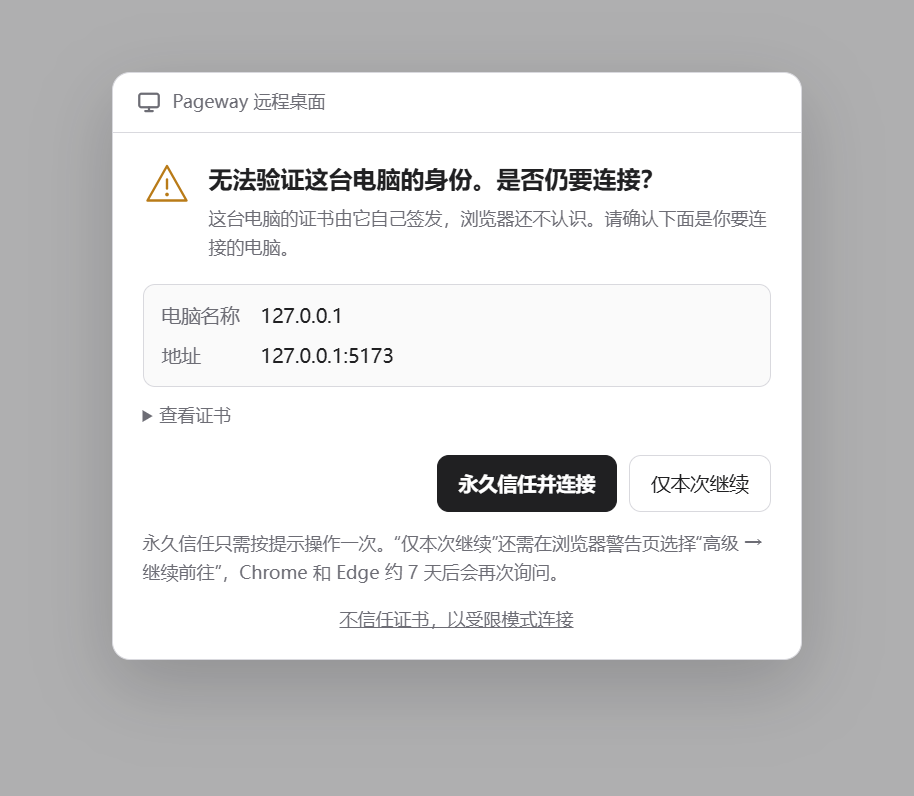
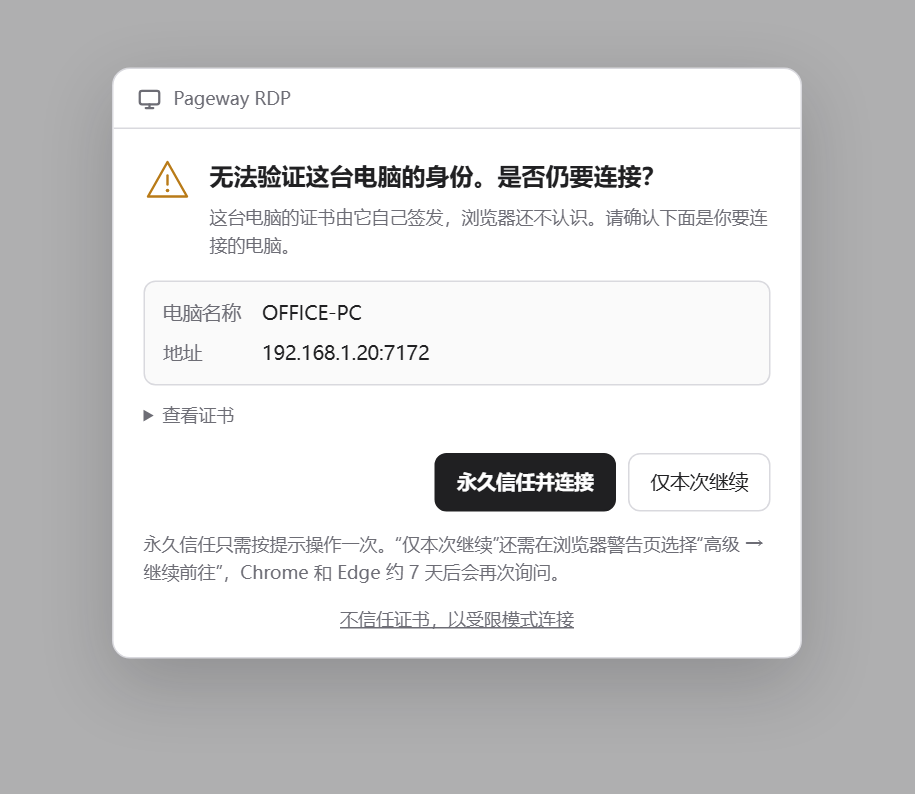
build: brand the project as Pageway RDP
SSH and VNC will ship as separate projects, so give this one RDP-specific
names: add an RDP tag next to the wordmark on the sign-in page and installer
welcome bitmap, and rename the install directory, registry keys, scheduled
task, firewall rule, data directory, certificates, downloads and installer
files to Pageway RDP / Pageway-RDP-*. Refresh the documentation screenshots.

diff --git a/frontend/public/trust.html b/frontend/public/trust.html
@@ -3,7 +3,7 @@
 <head>
   <meta charset="utf-8" />
   <meta name="viewport" content="width=device-width, initial-scale=1" />
-  <title>Pageway</title>
+  <title>Pageway RDP</title>
   <link rel="icon" type="image/svg+xml" href="/pageway-icon.svg" />
   <style>
     *{box-sizing:border-box}body{margin:0;min-height:100vh;padding:clamp(12px,5vh,48px) 16px 24px;background:#f3f3f4;color:#202022;font:14px/1.6 system-ui,'Segoe UI','Microsoft YaHei',sans-serif}body::before{content:'';position:fixed;inset:0;background:rgba(0,0,0,.28);pointer-events:none}.dialog{position:relative;width:min(460px,100%);margin:0 auto;background:#fff;border:1px solid #d9d9de;border-radius:12px;box-shadow:0 16px 48px rgba(20,20,25,.2);overflow:hidden}.titlebar{display:flex;align-items:center;gap:8px;padding:10px 16px;border-bottom:1px solid #d9d9de;color:#6d6d75;font-size:12px}.titlebar svg{width:16px;height:16px}.body{padding:18px 20px 16px}.head{display:flex;gap:12px;align-items:flex-start}.head>svg{width:32px;height:32px;flex:0 0 auto;color:#b97b18;stroke-width:1.6}h1{font-size:16px;line-height:1.4;margin:2px 0 6px}p{margin:0;color:#6d6d75;font-size:12px}.facts{display:grid;grid-template-columns:auto 1fr;gap:6px 14px;margin:14px 0 0;padding:10px 12px;border:1px solid #d9d9de;border-radius:8px;background:#fafafa;font-size:13px}.facts dt{color:#6d6d75}.facts dd{margin:0;word-break:break-all}details{margin-top:10px;color:#6d6d75;font-size:12px}summary{cursor:pointer}.certificate{margin-top:8px;padding:10px 12px;border:1px dashed #d9d9de;border-radius:8px;line-height:1.7}.certificate code{display:block;color:#202022;font:11px/1.6 ui-monospace,Consolas,monospace;word-break:break-all}.certificate a{color:inherit}.hint,.steps{margin:12px 0 0}.limited{margin-top:12px;text-align:center}.limited a{color:inherit}.steps{padding:10px 12px 10px 30px;border:1px solid #d9d9de;border-radius:8px;background:#fafafa;color:#6d6d75;font-size:12px;line-height:1.8}.actions{display:flex;justify-content:flex-end;flex-wrap:wrap;gap:8px;margin-top:16px}.button{min-width:86px;padding:8px 14px;border:1px solid #202022;border-radius:8px;background:#202022;color:#fff;font:inherit;font-size:13px;font-weight:600;text-align:center;text-decoration:none;cursor:pointer}.button.secondary{border-color:#d9d9de;background:#fff;color:#202022;font-weight:400}.wait{display:flex;align-items:center;gap:8px;margin-top:14px;color:#6d6d75;font-size:12px}.spinner{width:12px;height:12px;border:2px solid #d9d9de;border-top-color:#202022;border-radius:50%;animation:spin 1s linear infinite}@keyframes spin{to{transform:rotate(360deg)}}svg{fill:none;stroke:currentColor;stroke-linecap:round;stroke-linejoin:round;stroke-width:1.5}[hidden]{display:none!important}@media(max-width:480px){body{padding:8px}.body{padding:16px}.facts{font-size:12px}}@media(prefers-color-scheme:dark){body{background:#242426;color:#f2f2f3}.dialog{background:#2f2f33;border-color:#45454c;box-shadow:0 16px 48px rgba(0,0,0,.5)}.titlebar{border-color:#45454c;color:#aaaab2}.head>svg{color:#f5b942}p,details,.facts dt,.steps,.wait{color:#aaaab2}.facts,.steps{background:#1b1b1d;border-color:#45454c}.certificate{border-color:#45454c}.certificate code{color:#f2f2f3}.button{border-color:#f2f2f3;background:#f2f2f3;color:#161617}.button.secondary{border-color:#45454c;background:#2f2f33;color:#f2f2f3}.spinner{border-color:#45454c;border-top-color:#f2f2f3}}
@@ -13,7 +13,7 @@
 <main class="dialog" role="dialog" aria-modal="true" aria-labelledby="dialog-title">
   <div class="titlebar">
     <svg viewBox="0 0 16 16" aria-hidden="true"><rect x="1.5" y="2.5" width="13" height="9" rx="1.5" /><path d="M5.5 14h5M8 11.5V14" /></svg>
-    <span data-zh="Pageway 远程桌面" data-en="Pageway Remote Desktop">Pageway 远程桌面</span>
+    <span>Pageway RDP</span>
   </div>
   <section id="checking" class="body">
     <div class="wait"><span class="spinner"></span><span data-zh="正在检查证书是否已受信任…" data-en="Checking whether the certificate is trusted…">正在检查证书是否已受信任…</span></div>
@@ -33,7 +33,7 @@
     <details>
       <summary data-zh="查看证书" data-en="View certificate">查看证书</summary>
       <div class="certificate">
-        <span data-zh="颁发者：Pageway 本机根证书（仅可用于本机名和私网地址）" data-en="Issuer: Pageway local root CA (restricted to this PC's name and private network addresses)">颁发者：Pageway 本机根证书（仅可用于本机名和私网地址）</span><br />
+        <span data-zh="颁发者：Pageway RDP 本机根证书（仅可用于本机名和私网地址）" data-en="Issuer: Pageway RDP local root CA (restricted to this PC's name and private network addresses)">颁发者：Pageway RDP 本机根证书（仅可用于本机名和私网地址）</span><br />
         <span data-zh="SHA-256 指纹：" data-en="SHA-256 fingerprint:">SHA-256 指纹：</span>
         <code id="fingerprint">—</code>
         <a href="/pageway/ca.cer" data-zh="下载证书文件" data-en="Download certificate file">下载证书文件</a>
@@ -73,11 +73,11 @@ const ua=navigator.userAgent;const firefox=Number(/Firefox\/(\d+)/.exec(ua)?.[1]
 const os=/iPhone|iPad/.test(ua)?'ios':/Android/.test(ua)?'android':/Mac OS X/.test(ua)?'mac':/Windows/.test(ua)?'windows':'linux';
 const platform=(os==='windows'||os==='mac')&&firefox&&firefox<120||os==='linux'&&firefox?'firefox':os;
 const content={
- windows:{download:'/pageway/ca.cmd',steps:zh?['运行已下载的 Pageway 信任脚本，浏览器下载时请选择“保留”。','在 Windows 安全警告中核对指纹并点“是”，无需管理员权限。','完成后本页自动进入；Chrome、Edge、Firefox 120 及以上版本通用。']:['Run the downloaded Pageway trust script. Choose Keep if the browser asks.','Verify the fingerprint in the Windows security warning and select Yes. Administrator rights are not required.','This page will connect automatically. Works in Chrome, Edge and Firefox 120 or later.'],waiting:zh?'运行刚下载的 Pageway 信任脚本，在系统提示中核对指纹并点“是”。':'Run the downloaded Pageway trust script, verify the fingerprint and select Yes in the system prompt.'},
+ windows:{download:'/pageway/ca.cmd',steps:zh?['运行已下载的 Pageway RDP 信任脚本，浏览器下载时请选择“保留”。','在 Windows 安全警告中核对指纹并点“是”，无需管理员权限。','完成后本页自动进入；Chrome、Edge、Firefox 120 及以上版本通用。']:['Run the downloaded Pageway RDP trust script. Choose Keep if the browser asks.','Verify the fingerprint in the Windows security warning and select Yes. Administrator rights are not required.','This page will connect automatically. Works in Chrome, Edge and Firefox 120 or later.'],waiting:zh?'运行刚下载的 Pageway RDP 信任脚本，在系统提示中核对指纹并点“是”。':'Run the downloaded Pageway RDP trust script, verify the fingerprint and select Yes in the system prompt.'},
  firefox:{download:'/pageway/ca.der',steps:zh?['打开 Firefox 设置 > 隐私与安全 > 证书 > 查看证书。','在“证书机构”中导入刚下载的 ca.der，并勾选“信任此 CA 标识网站”。','完成后本页自动进入。']:['Open Firefox Settings > Privacy & Security > Certificates > View Certificates.','Import the downloaded ca.der under Authorities and select Trust this CA to identify websites.','This page will connect automatically when complete.'],waiting:zh?'请在 Firefox 的证书机构设置中完成 ca.der 的导入和信任。':'Complete the ca.der import and trust steps in Firefox certificate authorities settings.'},
  linux:{download:'/pageway/ca.cer',steps:zh?['打开 chrome://certificate-manager。','在本地证书中导入刚下载的 ca.cer 并设为受信任的证书机构，完成后本页自动进入。']:['Open chrome://certificate-manager.','Import the downloaded ca.cer under local certificates and trust it as a certificate authority. This page will connect automatically.'],waiting:zh?'请在浏览器证书管理中完成 ca.cer 的导入和信任。':'Complete the ca.cer import and trust steps in your browser certificate manager.'},
  mac:{download:'/pageway/ca.mobileconfig',steps:zh?['打开已下载的描述文件。','在系统设置中安装并输入密码，适用于 Safari、Chrome、Edge 和 Firefox 120 及以上版本。','完成后本页自动进入；如仍提示不安全，在钥匙串访问中设为“始终信任”。']:['Open the downloaded profile.','Install it in System Settings and enter your password. Works in Safari, Chrome, Edge and Firefox 120 or later.','This page will connect automatically. If the browser still warns, set the certificate to Always Trust in Keychain Access.'],waiting:zh?'请在系统设置中完成描述文件安装。':'Complete the profile installation in System Settings.'},
- ios:{download:'/pageway/ca.mobileconfig',steps:zh?['在系统设置中安装已下载的描述文件。','打开“设置 > 通用 > 关于本机 > 证书信任设置”。','启用 Pageway 根证书的完全信任，完成后本页自动进入。']:['Install the downloaded profile in Settings.','Open Settings > General > About > Certificate Trust Settings.','Enable full trust for the Pageway root certificate. This page will connect automatically.'],waiting:zh?'请完成描述文件安装，并在证书信任设置中启用完全信任。':'Install the profile and enable full trust in Certificate Trust Settings.'},
+ ios:{download:'/pageway/ca.mobileconfig',steps:zh?['在系统设置中安装已下载的描述文件。','打开“设置 > 通用 > 关于本机 > 证书信任设置”。','启用 Pageway RDP 根证书的完全信任，完成后本页自动进入。']:['Install the downloaded profile in Settings.','Open Settings > General > About > Certificate Trust Settings.','Enable full trust for the Pageway RDP root certificate. This page will connect automatically.'],waiting:zh?'请完成描述文件安装，并在证书信任设置中启用完全信任。':'Install the profile and enable full trust in Certificate Trust Settings.'},
  android:{download:'/pageway/ca.cer',steps:zh?['打开“设置 > 安全 > 加密与凭据 > 安装证书 > CA 证书”。','选择刚下载的 ca.cer，完成后本页自动进入。']:['Open Settings > Security > Encryption & credentials > Install a certificate > CA certificate.','Select the downloaded ca.cer. This page will connect automatically.'],waiting:zh?'请在系统设置中完成 CA 证书安装。':'Complete the CA certificate installation in Settings.'}
 };
 const selected=content[platform];

diff --git a/frontend/index.html b/frontend/index.html
@@ -34,6 +34,7 @@
               </g>
             </svg>
             <span class="brand-name">pageway</span>
+            <span class="brand-tag">RDP</span>
           </div>
           <p class="tagline">Everything is a page away</p>
           <div class="windows-avatar" aria-hidden="true">
@@ -93,7 +94,7 @@
       <span id="connection-name" class="connection-name">
         <svg id="secure-icon" class="secure-icon" viewBox="0 0 16 16" aria-hidden="true"><rect x="3" y="7" width="10" height="7" rx="1.5" /><path d="M5 7V5a3 3 0 0 1 6 0v2" /></svg>
         <svg id="limited-icon" class="limited-icon" viewBox="0 0 16 16" aria-hidden="true" hidden><path d="M8 2.5 14.5 13.5h-13z" /><path d="M8 6.5v3.2M8 11.6h.01" /></svg>
-        <span id="connection-host">Pageway</span>
+        <span id="connection-host">Pageway RDP</span>
       </span>
       <span class="tool-separator" aria-hidden="true"></span>
       <button id="ctrl-alt-del" class="tool-button" type="button" data-i18n-aria="ctrlAltDel" data-i18n-title="ctrlAltDel">

diff --git a/frontend/src/style.css b/frontend/src/style.css
@@ -122,6 +122,17 @@ select {
   color: var(--text);
 }
 
+.brand-tag {
+  padding: 2px 6px 1px;
+  border: 1.5px solid currentColor;
+  border-radius: 5px;
+  font-size: 11px;
+  font-weight: 600;
+  line-height: 1.2;
+  letter-spacing: 1px;
+  color: var(--text);
+}
+
 .tagline {
   margin: -8px 0 4px;
   text-align: center;

diff --git a/gateway/src/web_tls.rs b/gateway/src/web_tls.rs
@@ -90,7 +90,7 @@ pub fn load_or_create(config_dir: &Path) -> Result<WebTls> {
             &metadata_path,
             serde_json::to_vec(&CertificateMetadata { sans, expires })?,
         )?;
-        tracing::info!(%host, "Generated a new Pageway HTTPS certificate");
+        tracing::info!(%host, "Generated a new Pageway RDP HTTPS certificate");
     }
 
     let certs = load_certs(&cert_path)?;
@@ -161,7 +161,7 @@ fn is_allowed_ip(ip: IpAddr) -> bool {
 fn create_ca(host: &str) -> Result<(String, String)> {
     let mut params = CertificateParams::new(Vec::<String>::new())?;
     params.is_ca = IsCa::Ca(BasicConstraints::Constrained(0));
-    params.distinguished_name = distinguished_name(&format!("Pageway {host} Local CA"));
+    params.distinguished_name = distinguished_name(&format!("Pageway RDP {host} Local CA"));
     params.key_usages = vec![KeyUsagePurpose::KeyCertSign, KeyUsagePurpose::CrlSign];
     params.not_before = OffsetDateTime::now_utc() - time::Duration::days(1);
     params.not_after = OffsetDateTime::now_utc() + time::Duration::days(3650);
@@ -207,7 +207,7 @@ fn create_server_certificate(
     ca_key: &KeyPair,
 ) -> Result<(String, String, i64)> {
     let mut params = CertificateParams::new(sans.to_vec())?;
-    params.distinguished_name = distinguished_name(&format!("Pageway {host}"));
+    params.distinguished_name = distinguished_name(&format!("Pageway RDP {host}"));
     params.use_authority_key_identifier_extension = true;
     params.key_usages = vec![
         KeyUsagePurpose::DigitalSignature,
@@ -260,17 +260,17 @@ impl TrustInfo {
 <!DOCTYPE plist PUBLIC "-//Apple//DTD PLIST 1.0//EN" "http://www.apple.com/DTDs/PropertyList-1.0.dtd">
 <plist version="1.0"><dict>
 <key>PayloadContent</key><array><dict>
-<key>PayloadCertificateFileName</key><string>Pageway-{host}.cer</string>
+<key>PayloadCertificateFileName</key><string>Pageway-RDP-{host}.cer</string>
 <key>PayloadContent</key><data>{}</data>
-<key>PayloadDescription</key><string>Pageway local CA</string>
-<key>PayloadDisplayName</key><string>Pageway {host}</string>
-<key>PayloadIdentifier</key><string>local.pageway.{uuid}.certificate</string>
+<key>PayloadDescription</key><string>Pageway RDP local CA</string>
+<key>PayloadDisplayName</key><string>Pageway RDP {host}</string>
+<key>PayloadIdentifier</key><string>local.pageway.rdp.{uuid}.certificate</string>
 <key>PayloadType</key><string>com.apple.security.root</string>
 <key>PayloadUUID</key><string>{uuid}</string>
 <key>PayloadVersion</key><integer>1</integer>
 </dict></array>
-<key>PayloadDisplayName</key><string>Pageway {host}</string>
-<key>PayloadIdentifier</key><string>local.pageway.{uuid}</string>
+<key>PayloadDisplayName</key><string>Pageway RDP {host}</string>
+<key>PayloadIdentifier</key><string>local.pageway.rdp.{uuid}</string>
 <key>PayloadRemovalDisallowed</key><false/>
 <key>PayloadType</key><string>Configuration</string>
 <key>PayloadUUID</key><string>{uuid}</string>
@@ -283,7 +283,7 @@ impl TrustInfo {
     pub fn windows_command(&self) -> String {
         let encoded = BASE64.encode(self.ca_pem.as_bytes());
         format!(
-            "@echo off\r\nsetlocal\r\nset \"B64=%TEMP%\\pageway-ca-base64.txt\"\r\nset \"CERT=%TEMP%\\pageway-ca.cer\"\r\n> \"%B64%\" echo {encoded}\r\ncertutil.exe -decode \"%B64%\" \"%CERT%\"\r\nif errorlevel 1 goto failed\r\ncertutil.exe -user -addstore Root \"%CERT%\"\r\nif errorlevel 1 goto failed\r\ndel \"%B64%\" \"%CERT%\"\r\necho.\r\necho Pageway certificate installed. Return to the Pageway tab.\r\npause\r\nexit /b 0\r\n:failed\r\necho Certificate import failed. Download the CER file and use Windows certificate import instead.\r\npause\r\nexit /b 1\r\n"
+            "@echo off\r\nsetlocal\r\nset \"B64=%TEMP%\\pageway-rdp-ca-base64.txt\"\r\nset \"CERT=%TEMP%\\pageway-rdp-ca.cer\"\r\n> \"%B64%\" echo {encoded}\r\ncertutil.exe -decode \"%B64%\" \"%CERT%\"\r\nif errorlevel 1 goto failed\r\ncertutil.exe -user -addstore Root \"%CERT%\"\r\nif errorlevel 1 goto failed\r\ndel \"%B64%\" \"%CERT%\"\r\necho.\r\necho Pageway RDP certificate installed. Return to the Pageway RDP tab.\r\npause\r\nexit /b 0\r\n:failed\r\necho Certificate import failed. Download the CER file and use Windows certificate import instead.\r\npause\r\nexit /b 1\r\n"
         )
     }
 }

diff --git a/gateway/src/main.rs b/gateway/src/main.rs
@@ -129,7 +129,7 @@ fn default_config_dir() -> PathBuf {
     std::env::var_os("LOCALAPPDATA")
         .map(PathBuf::from)
         .unwrap_or_else(std::env::temp_dir)
-        .join("Pageway")
+        .join("Pageway RDP")
 }
 
 fn default_static_dir() -> PathBuf {
@@ -146,7 +146,7 @@ async fn main() -> Result<()> {
     init_logging(options.log.as_deref())?;
 
     let listen = options.listen;
-    tracing::info!(%listen, destination = %options.destination, "Pageway starting");
+    tracing::info!(%listen, destination = %options.destination, "Pageway RDP starting");
     let web_tls = web_tls::load_or_create(&options.config_dir)?;
     let listener = tokio::net::TcpListener::bind(listen).await?;
     tracing::info!(fingerprint = %web_tls.trust.fingerprint, "HTTPS ready");
@@ -274,7 +274,7 @@ async fn ca_pem_handler(State(state): State<AppState>) -> Response {
     download_response(
         state.trust.ca_pem.clone().into_bytes(),
         "application/x-x509-ca-cert",
-        &format!("pageway-{}.cer", state.trust.host),
+        &format!("Pageway-RDP-{}.cer", state.trust.host),
     )
 }
 
@@ -282,7 +282,7 @@ async fn ca_command_handler(State(state): State<AppState>) -> Response {
     download_response(
         state.trust.windows_command().into_bytes(),
         "application/octet-stream",
-        &format!("Pageway-Trust-{}.cmd", state.trust.host),
+        &format!("Pageway-RDP-Trust-{}.cmd", state.trust.host),
     )
 }
 
@@ -290,7 +290,7 @@ async fn ca_profile_handler(State(state): State<AppState>) -> Response {
     download_response(
         state.trust.mobileconfig().into_bytes(),
         "application/x-apple-aspen-config",
-        &format!("Pageway-{}.mobileconfig", state.trust.host),
+        &format!("Pageway-RDP-{}.mobileconfig", state.trust.host),
     )
 }
 

diff --git a/README.md b/README.md
@@ -1,4 +1,4 @@
-# Pageway
+# Pageway RDP
 
 **English** | [简体中文](README.zh-CN.md)
 
@@ -10,7 +10,7 @@ Self-hosted remote desktop for a Windows PC, delivered through its own web page.
 [![Release workflow](https://github.com/pageway/pageway-rdp/actions/workflows/release.yml/badge.svg)](https://github.com/pageway/pageway-rdp/actions/workflows/release.yml)
 [![License: MIT](https://img.shields.io/badge/license-MIT-green.svg)](LICENSE)
 
-<img src="docs/images/login.png" alt="Pageway Windows sign-in page" width="480">
+<img src="docs/images/login.png" alt="Pageway RDP Windows sign-in page" width="480">
 
 ## Features
 
@@ -23,7 +23,7 @@ Self-hosted remote desktop for a Windows PC, delivered through its own web page.
 
 ## Requirements
 
-Pageway supports Windows 10/11 Pro, Enterprise, and Education, and Windows Server 2016 or later. Windows Home does not include an RDP server and cannot be the controlled PC.
+Pageway RDP supports Windows 10/11 Pro, Enterprise, and Education, and Windows Server 2016 or later. Windows Home does not include an RDP server and cannot be the controlled PC.
 
 The installer checks for the native Windows RDP host components; it does not install or replace Windows components. The controlled PC needs no Rust, Node.js, Python, or additional runtime.
 
@@ -35,12 +35,12 @@ Download the appropriate installer from [Releases](https://github.com/pageway/pa
 
 | Architecture | File |
 | --- | --- |
-| x64 (AMD64) | `Pageway-Setup-1.0.0-windows-x64.exe` |
-| ARM64 | `Pageway-Setup-1.0.0-windows-arm64.exe` |
+| x64 (AMD64) | `Pageway-RDP-Setup-1.0.0-windows-x64.exe` |
+| ARM64 | `Pageway-RDP-Setup-1.0.0-windows-arm64.exe` |
 
-The bilingual installer requires administrator approval and defaults to port `7172`. It enables Remote Desktop, adds a firewall exception for Pageway, and starts Pageway after Windows sign-in.
+The bilingual installer requires administrator approval and defaults to port `7172`. It enables Remote Desktop, adds a firewall exception for Pageway RDP, and starts Pageway RDP after Windows sign-in.
 
-Open **Pageway** from the Start menu, or visit:
+Open **Pageway RDP** from the Start menu, or visit:
 
 ```text
 http://127.0.0.1:7172/
@@ -50,21 +50,21 @@ http://127.0.0.1:7172/
 
 Sign in with the Windows username and password of the controlled PC. From another device, replace `127.0.0.1` with the PC's LAN or private-overlay-network address.
 
-Pageway remembers the last username and display preferences. It does not store the Windows password; password storage is left to the browser's password manager.
+Pageway RDP remembers the last username and display preferences. It does not store the Windows password; password storage is left to the browser's password manager.
 
 ### First connection and certificate trust
 
-When another device first connects over HTTP, Pageway asks how to trust the PC's local certificate.
+When another device first connects over HTTP, Pageway RDP asks how to trust the PC's local certificate.
 
-<img src="docs/images/first-trust.png" alt="Pageway certificate identity confirmation" width="720">
+<img src="docs/images/first-trust.png" alt="Pageway RDP certificate identity confirmation" width="720">
 
 - **Trust permanently and connect**: download the platform-specific trust file and follow the on-screen steps. On Windows, the same local root certificate works with Chrome, Edge, and Firefox 120 or later.
 - **Continue this time only**: continue through the browser's certificate warning with **Advanced → Proceed**. Chrome and Edge normally ask again after about seven days.
 - **Limited mode**: stay on HTTP without trusting the certificate. Clipboard transfer uses the manual text panel, and fullscreen system-key capture is unavailable.
 
-Both trust options use HTTPS and WSS for the remote session. The local CA is restricted to the PC name and private-network addresses. Pageway replaces the website certificate when local IP addresses change, without requiring the root certificate to be imported again.
+Both trust options use HTTPS and WSS for the remote session. The local CA is restricted to the PC name and private-network addresses. Pageway RDP replaces the website certificate when local IP addresses change, without requiring the root certificate to be imported again.
 
-> **Security:** do not expose the Pageway port directly to the public internet. Use a trusted LAN or a private overlay network.
+> **Security:** do not expose the Pageway RDP port directly to the public internet. Use a trusted LAN or a private overlay network.
 
 ### During a session
 
@@ -78,9 +78,9 @@ Audio, printing, file transfer, microphone, and camera are not available yet; se
 
 ## Settings and uninstall
 
-Run the installer again to change the web port. The RDP destination is fixed to `127.0.0.1:3389`; Pageway is not an intermediate RDP proxy.
+Run the installer again to change the web port. The RDP destination is fixed to `127.0.0.1:3389`; Pageway RDP is not an intermediate RDP proxy.
 
-Configuration, logs, and local certificates are stored in `%LOCALAPPDATA%\Pageway`:
+Configuration, logs, and local certificates are stored in `%LOCALAPPDATA%\Pageway RDP`:
 
 ```text
 config.json
@@ -88,17 +88,17 @@ gateway.log
 tls\
 ```
 
-Uninstall Pageway from Windows **Installed apps**. The uninstaller can ask whether to keep configuration and logs. Silent uninstall removes them:
+Uninstall Pageway RDP from Windows **Installed apps**. The uninstaller can ask whether to keep configuration and logs. Silent uninstall removes them:
 
 ```powershell
-& "$env:ProgramFiles\Pageway\uninstall.exe" /S
+& "$env:ProgramFiles\Pageway RDP\uninstall.exe" /S
 ```
 
 Uninstalling does not disable Windows Remote Desktop, because it may have been enabled before installation or used by other software.
 
 ## Roadmap
 
-Pageway aims to offer what the native Windows Remote Desktop client (mstsc) offers wherever a browser allows it, and to handle each feature the way mstsc does. The work is split into four phases; each phase is tested on real Windows hosts and released as its own minor version. The product boundary is the same in every phase: Pageway connects only to the PC's own RDP service at `127.0.0.1:3389`, has no central server, and installs no Windows components.
+Pageway RDP aims to offer what the native Windows Remote Desktop client (mstsc) offers wherever a browser allows it, and to handle each feature the way mstsc does. The work is split into four phases; each phase is tested on real Windows hosts and released as its own minor version. The product boundary is the same in every phase: Pageway RDP connects only to the PC's own RDP service at `127.0.0.1:3389`, has no central server, and installs no Windows components.
 
 Items marked **HTTPS** need a secure page (a trusted certificate or localhost). Browsers disable the APIs they rely on in limited mode.
 
@@ -147,12 +147,12 @@ These depend on newer or browser-specific APIs.
 ### Not planned
 
 - Smart cards, serial and parallel ports, USB, and other Plug and Play devices: browsers do not provide the device access these require. WebUSB covers only a few devices and remains a research item.
-- RD Gateway, server redirection, and UDP transport: outside Pageway's product boundary, or unavailable in browsers.
+- RD Gateway, server redirection, and UDP transport: outside Pageway RDP's product boundary, or unavailable in browsers.
 
 ## Architecture
 
 ```text
-Browser (IronRDP WASM) ── WebSocket / RDCleanPath ──> Pageway gateway ── TLS ──> Local RDP service (3389)
+Browser (IronRDP WASM) ── WebSocket / RDCleanPath ──> Pageway RDP gateway ── TLS ──> Local RDP service (3389)
 ```
 
 The browser performs CredSSP/NLA, desktop decoding, and rendering. The Rust gateway handles protocol ingress, TLS termination, and bidirectional byte relay.
@@ -163,6 +163,6 @@ Build instructions, repository layout, checks, and the release process are in [C
 
 ## License
 
-Pageway is available under the [MIT License](LICENSE).
+Pageway RDP is available under the [MIT License](LICENSE).
 
-Thanks to [Devolutions IronRDP](https://github.com/Devolutions/IronRDP) for the RDP protocol stack and web client. Pageway's IronRDP changes are maintained in the fork referenced by the `IronRDP` submodule.
+Thanks to [Devolutions IronRDP](https://github.com/Devolutions/IronRDP) for the RDP protocol stack and web client. Pageway RDP's IronRDP changes are maintained in the fork referenced by the `IronRDP` submodule.

diff --git a/CONTRIBUTING.md b/CONTRIBUTING.md
@@ -1,11 +1,11 @@
-# Contributing to Pageway
+# Contributing to Pageway RDP
 
 This document contains maintainer and developer instructions. For installation and day-to-day use, see [README.md](README.md) or [README.zh-CN.md](README.zh-CN.md).
 
 ## Repository layout
 
 ```text
-frontend/             Pageway web interface and first-trust page
+frontend/             Pageway RDP web interface and first-trust page
 gateway/              Rust HTTP/HTTPS/WebSocket gateway and tests
 IronRDP/              Pageway's IronRDP fork, pinned as a Git submodule
 packaging/            Build scripts and NSIS installer
@@ -111,8 +111,8 @@ The [`release`](.github/workflows/release.yml) workflow supports manual runs and
 2. Open **Actions → release → Run workflow** and run it from the intended branch.
 3. Wait for `notes` and `installers` to succeed. `installers` builds the web frontend once, then both architectures, and fails unless exactly the two expected installers exist.
 4. Download the two installers from the workflow run's **Artifacts** section. Each artifact is a single uncompressed `.exe`:
-   - `Pageway-Setup-x.y.z-windows-x64.exe`
-   - `Pageway-Setup-x.y.z-windows-arm64.exe`
+   - `Pageway-RDP-Setup-x.y.z-windows-x64.exe`
+   - `Pageway-RDP-Setup-x.y.z-windows-arm64.exe`
 5. Install and test the downloaded packages.
 6. Open the `notes` job summary on the run page to preview the description the tag run will put on the GitHub Release page.
 
